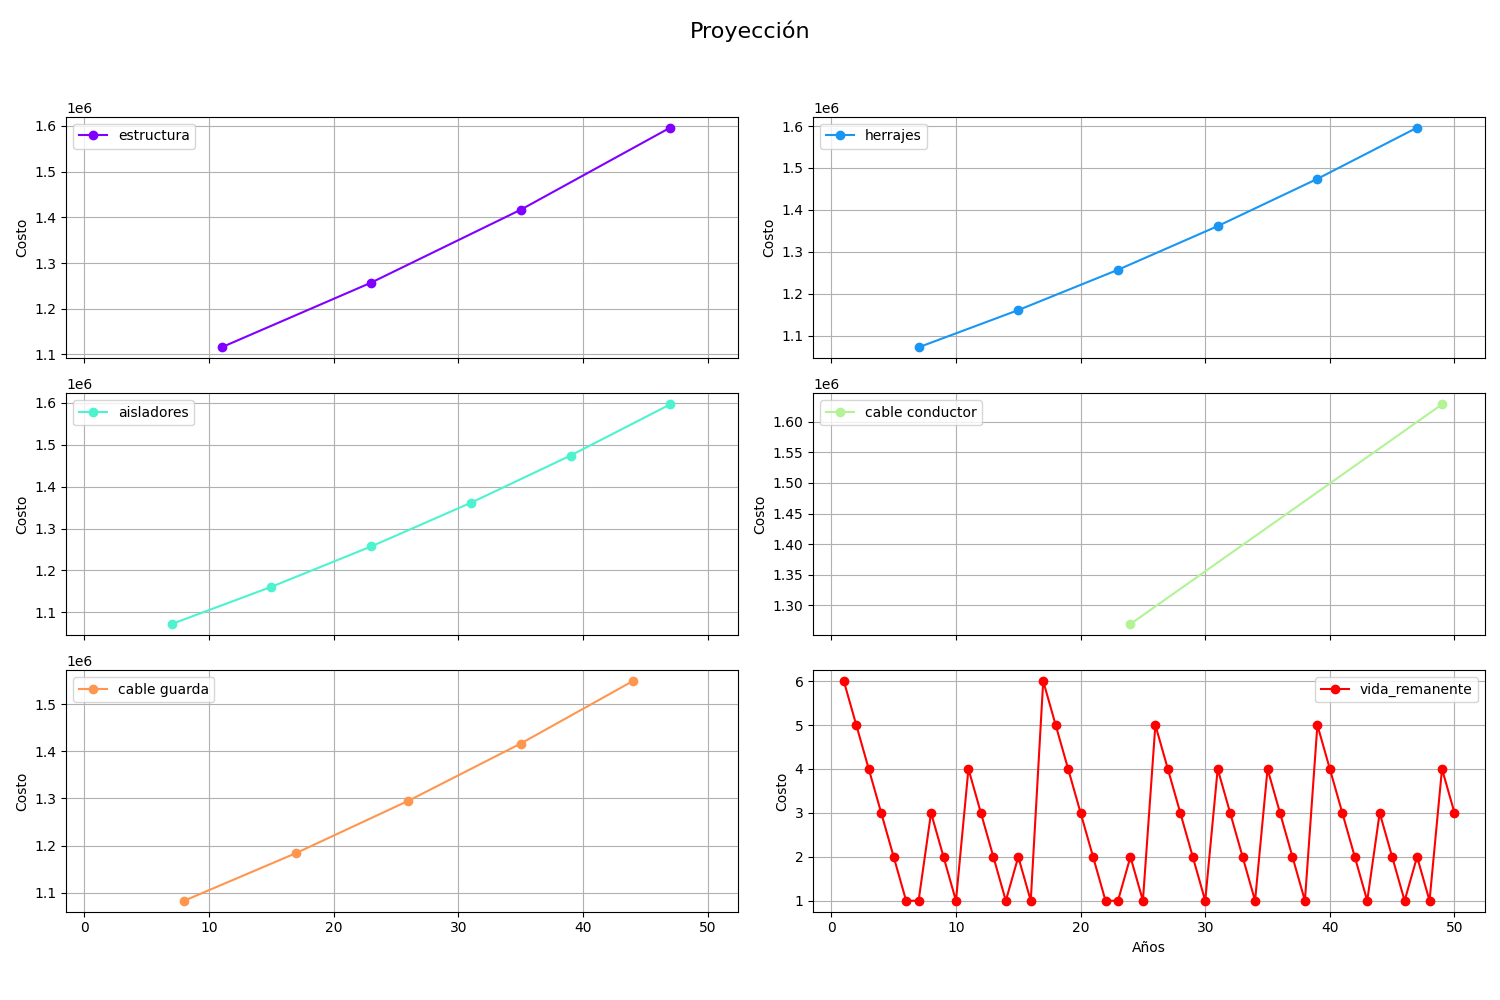
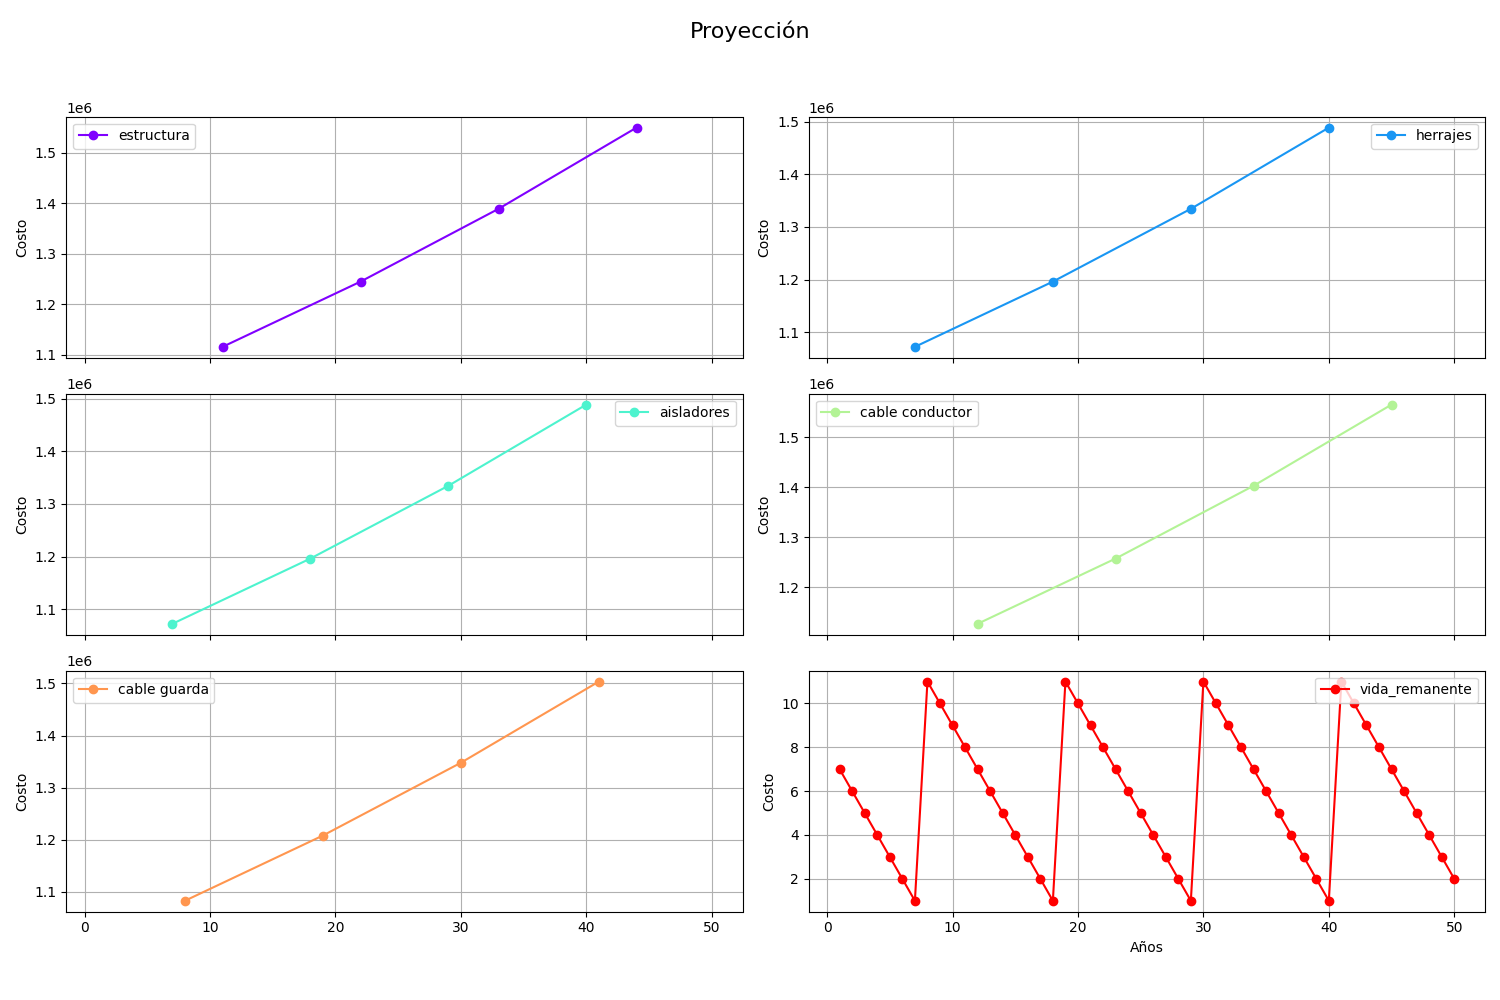
proyeccion con techo

diff --git a/main.py b/main.py
@@ -3,7 +3,7 @@ import numpy as np
 import matplotlib.cm as cm
 años = int(input("digite la cantidad de años: "))
 ipc = float(input("digite el valor del IPC: "))
-
+techo = int(input("digite el valor del techo: "))
 class Elemento:
     def __init__(self, vida_remanente, costo, años_restantes):
         self.vida_remanente = vida_remanente
@@ -22,7 +22,33 @@ class Activo:
 
     def mostrar_años_restantes(self):
         return min(self.estructura.años_restantes, self.herrajes.años_restantes, self.aisladores.años_restantes, self.cable_conductor.años_restantes, self.cable_guarda.años_restantes)
-         
+    def mostrar_años_restantes_techo(self, techo):
+        if self.estructura.años_restantes < techo:
+            temp= self.estructura.años_restantes
+        else:
+            self.estructura.años_restantes = techo
+            temp= techo
+        if self.herrajes.años_restantes < techo:
+            temp= self.herrajes.años_restantes
+        else :
+            self.herrajes.años_restantes = techo
+        if self.aisladores.años_restantes < techo:
+            temp= self.aisladores.años_restantes
+        else:
+            self.aisladores.años_restantes = techo
+            temp = techo  
+        if self.cable_conductor.años_restantes < techo:
+            temp= self.cable_conductor.años_restantes
+        else:
+            self.cable_conductor.años_restantes = techo
+            temp = techo
+        if self.cable_guarda.años_restantes < techo:
+            temp= self.cable_guarda.años_restantes
+        else:
+            self.cable_guarda.años_restantes = techo
+            temp = techo
+        return temp
+    
     def mostrar_años(self):
         return self.estructura.años_restantes, self.herrajes.años_restantes, self.aisladores.años_restantes, self.cable_conductor.años_restantes, self.cable_guarda.años_restantes
     def mostrar_renovaciones(self):
@@ -72,6 +98,51 @@ class Activo:
                 cable_guarda.años_restantes = cable_guarda.vida_remanente
                 cable_guarda.años_restantes += 1
             self.costo[año] = {"estructura": a, "herrajes": b, "aisladores": c, "cable conductor": d, "cable guarda": e, "vida_remanente": self.mostrar_años_restantes()}
+    def proyeccion_años_techo(self, techo):
+        estructura = self.estructura
+        herrajes = self.herrajes
+        aisladores = self.aisladores
+        cable_conductor = self.cable_conductor
+        cable_guarda = self.cable_guarda
+        for año in range(años+1):
+            if año == 0 :
+                continue
+            a, b, c, d, e = 0, 0, 0, 0, 0
+            if estructura.años_restantes > 1:
+                estructura.años_restantes -= 1
+            else:
+                a = self.proyeccion_costo(año, estructura.costo)
+                estructura.años_restantes = estructura.vida_remanente * 2
+                estructura.años_restantes += 1
+
+            if herrajes.años_restantes > 1:
+                herrajes.años_restantes -= 1
+            else:
+                b = self.proyeccion_costo(año, herrajes.costo)
+                herrajes.años_restantes = herrajes.vida_remanente * 2
+                herrajes.años_restantes += 1
+
+            if aisladores.años_restantes > 1:
+                aisladores.años_restantes -= 1
+            else:
+                c = self.proyeccion_costo(año, aisladores.costo)
+                aisladores.años_restantes = aisladores.vida_remanente * 2
+                aisladores.años_restantes += 1
+
+            if cable_conductor.años_restantes > 1:
+                cable_conductor.años_restantes -= 1
+            else:
+                d = self.proyeccion_costo(año, cable_conductor.costo)
+                cable_conductor.años_restantes = cable_conductor.vida_remanente * 2 
+                cable_conductor.años_restantes += 1
+
+            if cable_guarda.años_restantes > 1:
+                cable_guarda.años_restantes -= 1
+            else:
+                e = self.proyeccion_costo(año, cable_guarda.costo)
+                cable_guarda.años_restantes = cable_guarda.vida_remanente * 2
+                cable_guarda.años_restantes += 1
+            self.costo[año] = {"estructura": a, "herrajes": b, "aisladores": c, "cable conductor": d, "cable guarda": e, "vida_remanente": self.mostrar_años_restantes_techo(techo)}
     def imprimir_costos(self):
         for key, value in self.costo.items():
             costos = {k: f"{v:.2f}" for k, v in value.items()}
@@ -113,7 +184,7 @@ cimentacion = Elemento(50, 1000000, 50)
 
 activo = Activo(estructura, herraje, aislador, cable_conductor, cable_guarda)
 
-activo.proyeccion_años()
+activo.proyeccion_años_techo(techo)
 activo.imprimir_costos()
 
 activo.grafica()
